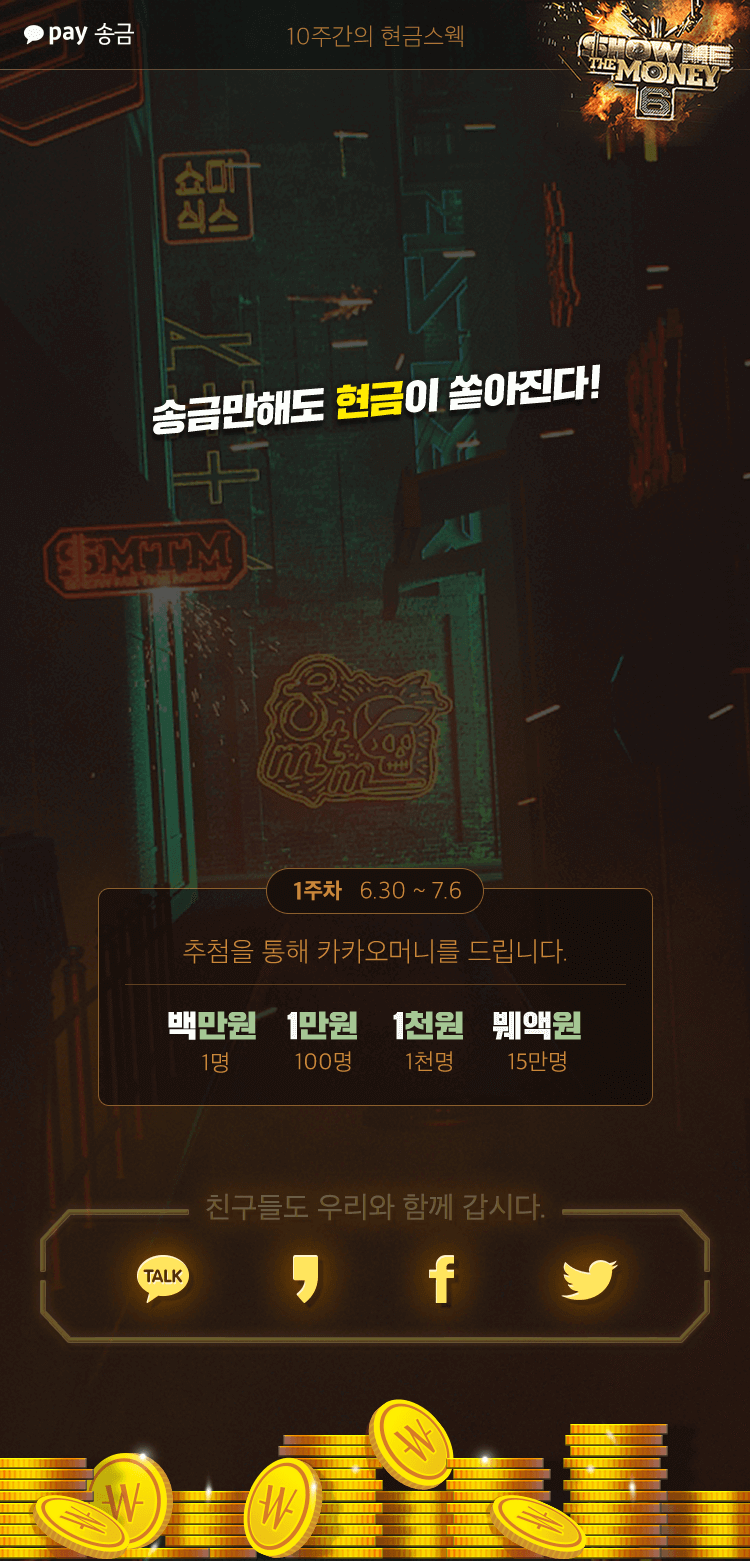
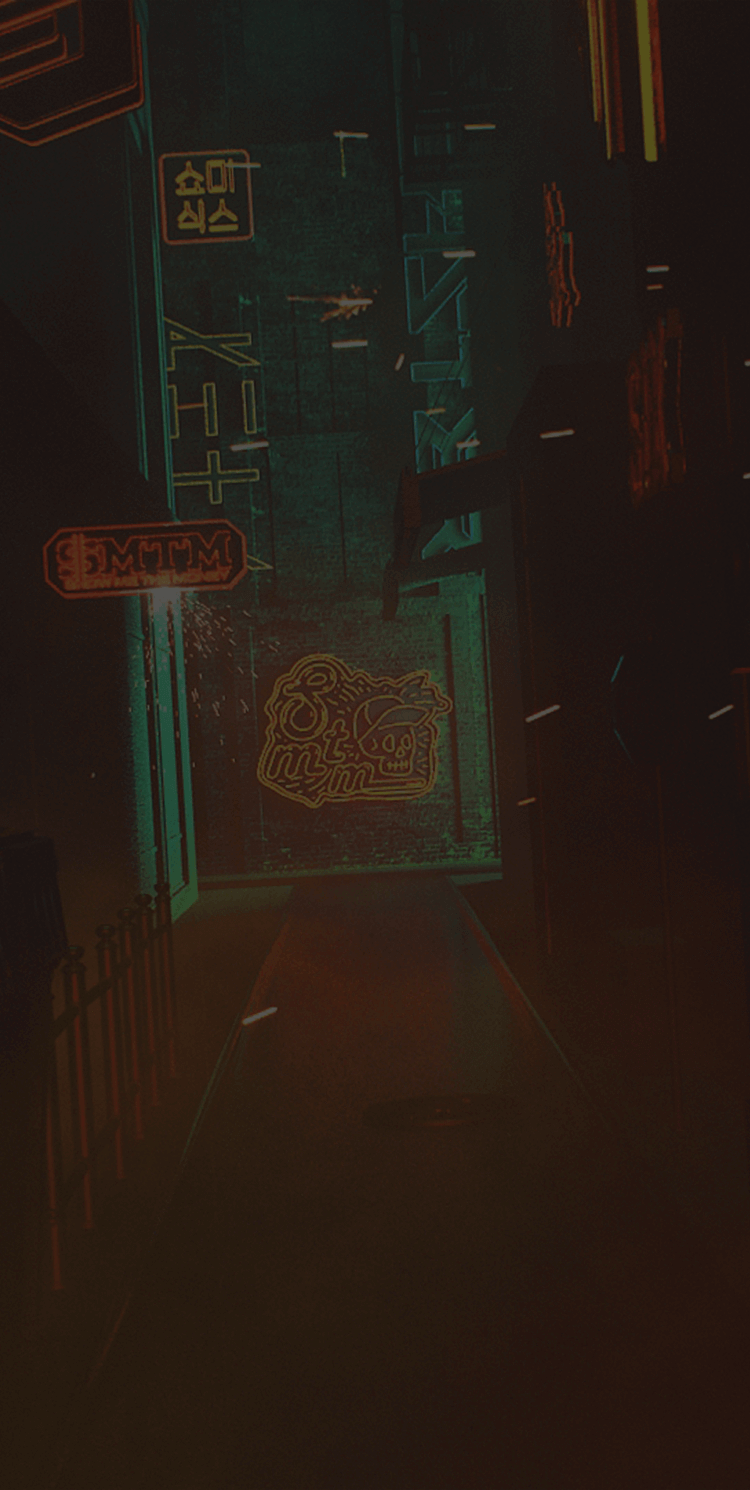
homework_1 작업중

diff --git a/static/css/custom.css b/static/css/custom.css
@@ -2,13 +2,18 @@
     position: relative;
     margin: 0 auto;
     width: 100%;
-    background-color: #26160f;
+    background: #26160f url("/images/bg.png") top/cover no-repeat fixed;
 }
 
 @media all and (min-width: 376px) {
     .content{
         max-width: 375px;
     }
+}
+
+.bg_wrap{
+    width: 100%;
+    height: 781px;
 }
 
 .banner_wrap{
@@ -22,6 +27,7 @@ footer{
     height: 200px;
     padding: 20px;
     color: #f9d648;
+    background-color: #26160f;
 }
 
 .txt{
@@ -44,12 +50,23 @@ footer{
     width: 215px;
     top: 120px;
     left: 82px;
+    animation: textNeon3 .5s linear infinite;
+}
+
+@keyframes textNeon3 {
+    10% { opacity: .8 }
 }
 
 .txt_4{
     width: 50px;
     top: 130px;
     left: 132px;
+    background: url("/images/txt_4.png") top/contain no-repeat;
+    animation: textNeon4 .5s linear infinite;
+}
+
+@keyframes textNeon4 {
+    10% { opacity: .5 }
 }
 
 .txt_5{
@@ -63,8 +80,16 @@ footer{
     top: 227px;
     left: 41px;
     width: 305px;
-    animation: money-move .8s linear infinite;
-    -webkit-animation: money-move .8s linear infinite;
+    animation: moneyMove .8s linear infinite;
+    -webkit-animation: moneyMove .8s linear infinite;
+}
+
+@keyframes moneyMove {
+    10% { transform: translateY(-2px) }
+}
+
+@-webkit-keyframes moneyMove {
+    10% { transform: translateY(-2px) }
 }
 
 .hand_wrap > div{
@@ -75,8 +100,16 @@ footer{
     width: 118px;
     top: 359px;
     left: 125px;
-    animation: money-scale .8s cubic-bezier(0, 1, 1, 1) infinite;
-    -webkit-animation: money-scale .8s cubic-bezier(0, 1, 1, 1) infinite;
+    animation: moneyScale .8s cubic-bezier(0, 1, 1, 1) infinite;
+    -webkit-animation: moneyScale .8s cubic-bezier(0, 1, 1, 1) infinite;
+}
+
+@keyframes moneyScale {
+    10% { transform: scale(1.1) }
+}
+
+@-webkit-keyframes moneyScale {
+    10% { transform: scale(1.1) }
 }
 
 .hand_wrap .hand_right{
@@ -84,8 +117,16 @@ footer{
     top: 374px;
     left: 75px;
     transform-origin: 0 100%;
-    animation: rotate-right .8s cubic-bezier(0, 1, 1, 1) infinite;
-    -webkit-animation: rotate-right .8s cubic-bezier(0, 1, 1, 1) infinite;
+    animation: handRightRotate .8s cubic-bezier(0, 1, 1, 1) infinite;
+    -webkit-animation: handRightRotate .8s cubic-bezier(0, 1, 1, 1) infinite;
+}
+
+@keyframes handRightRotate {
+    10% { transform: rotate(-20deg) }
+}
+
+@-webkit-keyframes handRightRotate {
+    10% { transform: rotate(-20deg) }
 }
 
 .hand_wrap .hand_left{
@@ -93,8 +134,16 @@ footer{
     top: 357px;
     left: 251px;
     transform-origin: 100% 100%;
-    animation: rotate-left .8s cubic-bezier(0, 1, 1, 1) infinite;
-    -webkit-animation: rotate-left .8s cubic-bezier(0, 1, 1, 1) infinite;
+    animation: handLeftRotate .8s cubic-bezier(0, 1, 1, 1) infinite;
+    -webkit-animation: handLeftRotate .8s cubic-bezier(0, 1, 1, 1) infinite;
+}
+
+@keyframes handLeftRotate {
+    10% { transform: rotate(20deg) }
+}
+
+@-webkit-keyframes handLeftRotate {
+    10% { transform: rotate(20deg) }
 }
 
 .coin{
@@ -196,78 +245,46 @@ footer{
 }
 
 .bounce .bg-color{
-    animation: bg-color .3s ease-in;
-    -webkit-animation: bg-color .3s ease-in;
+    animation: bgColorChange .3s ease-in;
+    -webkit-animation: bgColorChange .3s ease-in;
+}
+
+@keyframes bgColorChange {
+    from { background-color: #666 }
+}
+
+@-webkit-keyframes bgColorChange {
+    from { background-color: #666 }
 }
 
 .bounce .bounce-top{
-    animation: bounce-top .5s ease-in;
-    -webkit-animation: bounce-top .5s ease-in;
+    animation: bounceTop .5s ease-in;
+    -webkit-animation: bounceTop .5s ease-in;
+}
+
+@keyframes bounceTop {
+    0% { transform: translateY(80px) }
+    20% { transform: translateY(0) }
+    40% { transform: translateY(30px) }
+    60% { transform: translateY(0) }
+    80% { transform: translateY(10px) }
+    100% { transform: translateY(0px) }
+}
+@-webkit-keyframes bounceTop {
+    0% { transform: translateY(80px) }
+    20% { transform: translateY(0) }
+    40% { transform: translateY(30px) }
+    60% { transform: translateY(0) }
+    80% { transform: translateY(10px) }
+    100% { transform: translateY(0px) }
 }
 
 .bounce .bounce-bottom{
-    animation: bounce-bottom .5s ease-in;
-    -webkit-animation: bounce-bottom .5s ease-in;
+    animation: bounceBottom .5s ease-in;
+    -webkit-animation: bounceBottom .5s ease-in;
 }
 
-@keyframes rotate-left {
-    10% { transform: rotate(20deg) }
-}
-
-@-webkit-keyframes rotate-left {
-    10% { transform: rotate(20deg) }
-}
-
-@keyframes rotate-right {
-    10% { transform: rotate(-20deg) }
-}
-
-@-webkit-keyframes rotate-right {
-    10% { transform: rotate(-20deg) }
-}
-
-@keyframes money-move {
-    10% { transform: translateY(-2px) }
-}
-
-@-webkit-keyframes money-move {
-    10% { transform: translateY(-2px) }
-}
-
-@keyframes money-scale {
-    10% { transform: scale(1.1) }
-}
-
-@-webkit-keyframes money-scale {
-    10% { transform: scale(1.1) }
-}
-
-@keyframes bg-color {
-    from { background-color: #666 }
-}
-
-@-webkit-keyframes bg-color {
-    from { background-color: #666 }
-}
-
-@keyframes bounce-top {
-    0% { transform: translateY(80px) }
-    20% { transform: translateY(0) }
-    40% { transform: translateY(30px) }
-    60% { transform: translateY(0) }
-    80% { transform: translateY(10px) }
-    100% { transform: translateY(0px) }
-}
-@-webkit-keyframes bounce-top {
-    0% { transform: translateY(80px) }
-    20% { transform: translateY(0) }
-    40% { transform: translateY(30px) }
-    60% { transform: translateY(0) }
-    80% { transform: translateY(10px) }
-    100% { transform: translateY(0px) }
-}
-
-@keyframes bounce-bottom {
+@keyframes bounceBottom {
     0% { transform: translateY(-80px) }
     20% { transform: translateY(0) }
     40% { transform: translateY(-30px) }
@@ -275,7 +292,7 @@ footer{
     80% { transform: translateY(-10px) }
     100% { transform: translateY(0px) }
 }
-@-webkit-keyframes bounce-bottom {
+@-webkit-keyframes bounceBottom {
     0% { transform: translateY(-80px) }
     20% { transform: translateY(0) }
     40% { transform: translateY(-30px) }

diff --git a/static/html/homework.html b/static/html/homework.html
@@ -35,7 +35,7 @@
             </div>
             <div class="sns_wrap"><img src="/images/sns_txt.png" alt=""></div>
             <div class="button_wrap"><button type="button" class="btn_popup"><img src="/images/btn_participate.png" alt=""></button></div>
-            <div class="bg_wrap"><img src="/images/bg.png" alt=""></div>
+            <div class="bg_wrap"><img src="/images/bg_contents.png" alt=""></div>
             <div class="banner_wrap">
                 banner
             </div>
